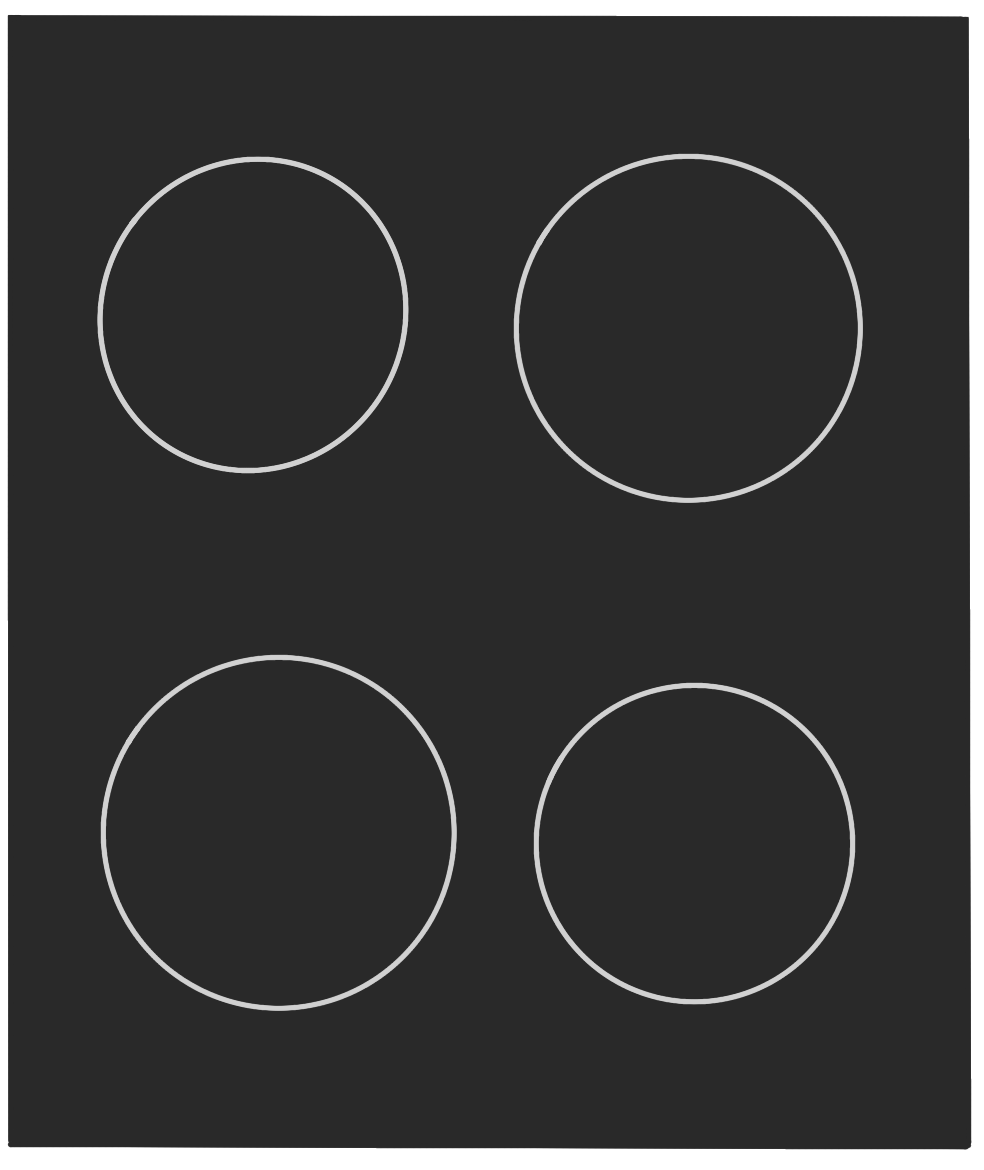
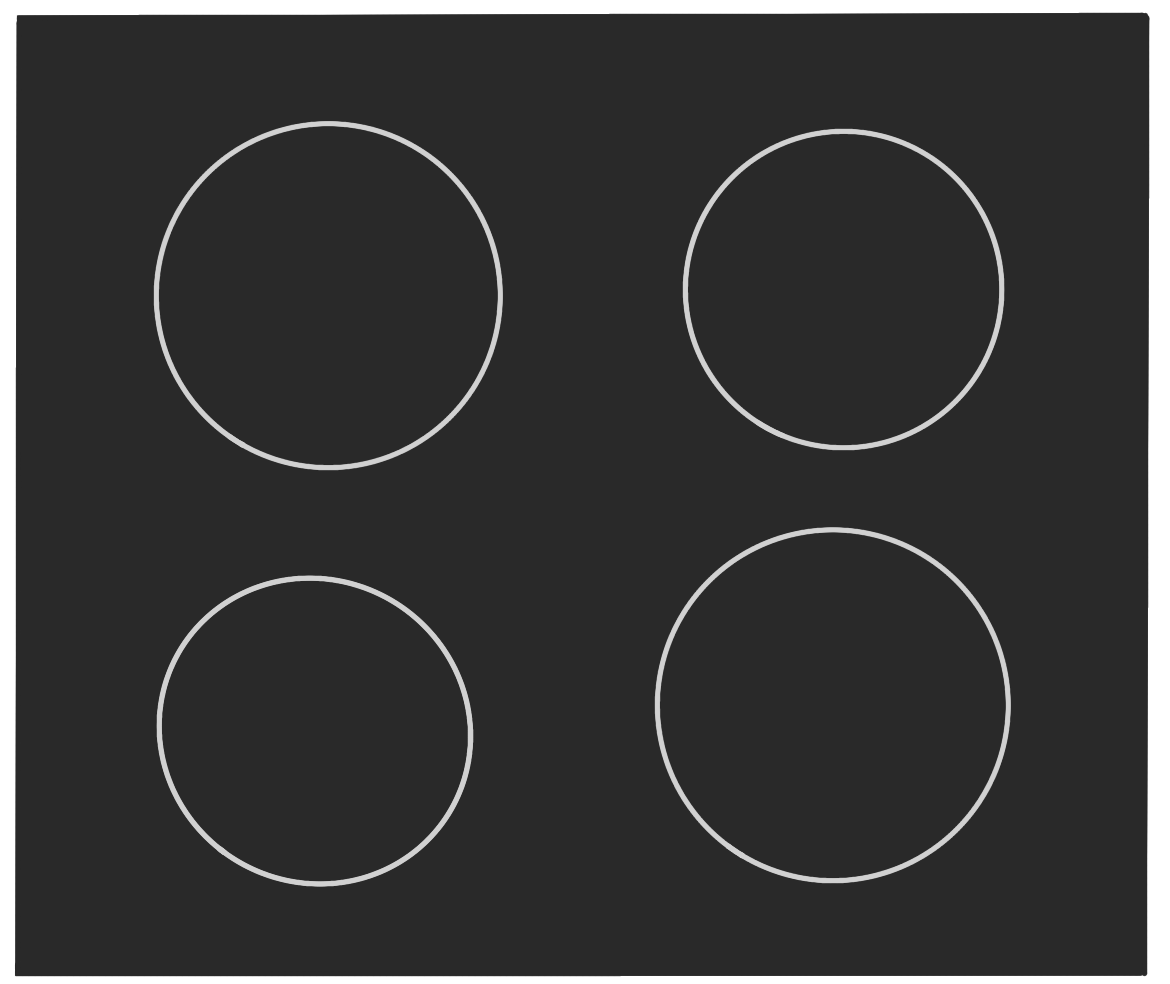
Component borders (#40)
* Energy border pngs added to assets

* Energy borders added to main demo view

diff --git a/frontend/src/components/visual_components/HotWaterHeater.jsx b/frontend/src/components/visual_components/HotWaterHeater.jsx
@@ -1,4 +1,5 @@
 import hotWaterHeaterImage from "../../assets/hot_water_heater.png";
+import energyBorder from "../../assets/hot_water_heater_energy.png";
 import { useNavigate } from "react-router-dom";
 import { useState } from "react"
 import EnergyComponent from "../EnergyComponent";
@@ -38,6 +39,19 @@ const HotWaterHeater = ({demoTime}) => {
 
   return(
     <div>
+      <img
+        id="hot-water-heater-energy"
+        src={energyBorder}
+        alt="energy"
+        className="hot-water-heater-energy-border"
+        style={{
+          position: 'absolute',
+          top: '22.1%',
+          left: '21.2%',
+          width: '4.2%',
+          height: '5.2%',
+        }}
+      />
       <img
         id="hot-water-heater"
         src={hotWaterHeaterImage}

diff --git a/frontend/src/components/visual_components/WashingMachine.jsx b/frontend/src/components/visual_components/WashingMachine.jsx
@@ -1,4 +1,5 @@
 import washingMachineImage from "../../assets/washing_machine.png";
+import energyBorder from "../../assets/washing_machine_energy.png";
 import { useNavigate } from "react-router-dom";
 import { useState } from "react"
 import EnergyComponent from "../EnergyComponent";
@@ -38,6 +39,19 @@ const WashingMachine = ({demoTime}) => {
 
   return (
     <div>
+      <img
+        id="washing-machine-energy"
+        src={energyBorder}
+        alt="energy"
+        className="washing-machine-energy-border"
+        style={{
+          position: 'absolute',
+          top: '22%',
+          left: '28%',
+          width: '6%',
+          height: '5.5%'
+        }}
+      />
       <img
         id="washing-machine"
         src={washingMachineImage}

diff --git a/frontend/src/components/visual_components/ElectricBoard.jsx b/frontend/src/components/visual_components/ElectricBoard.jsx
@@ -1,4 +1,5 @@
 import electricBoardImage from "../../assets/electric_board.png";
+import energyBorder from "../../assets/electric_board_energy.png";
 import { useNavigate } from "react-router-dom";
 import { useState } from "react"
 import EnergyComponent from "../EnergyComponent";
@@ -39,6 +40,19 @@ const ElectricBoard = ({demoTime}) => {
 
   return (
     <div>
+      <img
+        id="electric-board-energy"
+        src={energyBorder}
+        alt="energy"
+        className="electric-board-energy-border"
+        style={{
+          position: 'absolute',
+          top: '37.5%',
+          left: '56.8%',
+          width: '1.8%',
+          height: '6%',
+        }}
+      />
       <img
         id="electric-board"
         src={electricBoardImage}

diff --git a/frontend/src/components/visual_components/Jacuzzi.jsx b/frontend/src/components/visual_components/Jacuzzi.jsx
@@ -1,4 +1,5 @@
 import jacuzziImage from "../../assets/jacuzzi.png";
+import energyBorder from "../../assets/jacuzzi_energy.png";
 import { useNavigate } from "react-router-dom";
 import { useState } from "react"
 import EnergyComponent from "../EnergyComponent";
@@ -37,7 +38,21 @@ const Jacuzzi = ({demoTime}) => {
   const open = Boolean(anchorEl);
 
   return (
+    
     <div>
+      <img
+        id="jacuzzi-energy"
+        src={energyBorder}
+        alt="energy"
+        className="jacuzzi-energy-border"
+        style={{
+          position: 'absolute',
+          top: '2.5%',
+          left: '6.5%',
+          width: '11%',
+          height: '13%',
+        }}
+      />
       <img
         id="jacuzzi"
         src={jacuzziImage}

diff --git a/frontend/src/components/visual_components/SolarPanel2.jsx b/frontend/src/components/visual_components/SolarPanel2.jsx
@@ -1,4 +1,5 @@
 import solarPanelImage from "../../assets/solar_panel.png";
+import energyBorder from "../../assets/solar_panel_energy.png";
 import { useNavigate } from "react-router-dom";
 import { useState } from "react"
 import EnergyComponent from "../EnergyComponent";
@@ -38,6 +39,19 @@ const SolarPanel2 = ({demoTime}) => {
 
   return (
     <div>
+      <img
+        id="solar-panel-energy"
+        src={energyBorder}
+        alt="energy"
+        className="solar-panel-energy-border"
+        style={{
+          position: 'absolute',
+          top: '66%',
+          left: '18.9%',
+          width: '12%',
+          height: '10%'
+        }}
+      />
       <img
         id="solar-panel-2"
         src={solarPanelImage}

diff --git a/frontend/src/components/visual_components/SolarPanel4.jsx b/frontend/src/components/visual_components/SolarPanel4.jsx
@@ -1,4 +1,5 @@
 import solarPanelImage from "../../assets/solar_panel.png";
+import energyBorder from "../../assets/solar_panel_energy.png";
 import { useNavigate } from "react-router-dom";
 import { useState } from "react"
 import EnergyComponent from "../EnergyComponent";
@@ -38,6 +39,19 @@ const SolarPanel4 = ({demoTime}) => {
 
   return (
     <div>
+      <img
+        id="solar-panel-energy"
+        src={energyBorder}
+        alt="energy"
+        className="solar-panel-energy-border"
+        style={{
+          position: 'absolute',
+          top: '78%',
+          left: '18.9%',
+          width: '12%',
+          height: '10%'
+        }}
+      />
       <img
         id="solar-panel-4"
         src={solarPanelImage}

diff --git a/frontend/src/components/visual_components/SolarPanel1.jsx b/frontend/src/components/visual_components/SolarPanel1.jsx
@@ -1,4 +1,5 @@
 import solarPanelImage from "../../assets/solar_panel.png";
+import energyBorder from "../../assets/solar_panel_energy.png";
 import { useNavigate } from "react-router-dom";
 import { useState } from "react"
 import EnergyComponent from "../EnergyComponent";
@@ -38,6 +39,19 @@ const SolarPanel1 = ({demoTime}) => {
 
   return (
     <div>
+      <img
+        id="solar-panel-energy"
+        src={energyBorder}
+        alt="energy"
+        className="solar-panel-energy-border"
+        style={{
+          position: 'absolute',
+          top: '66%',
+          left: '6%',
+          width: '12%',
+          height: '10%'
+        }}
+      />
       <img
         id="solar-panel-1"
         src={solarPanelImage}

diff --git a/frontend/src/components/visual_components/SolarPanel3.jsx b/frontend/src/components/visual_components/SolarPanel3.jsx
@@ -1,4 +1,5 @@
 import solarPanelImage from "../../assets/solar_panel.png";
+import energyBorder from "../../assets/solar_panel_energy.png";
 import { useNavigate } from "react-router-dom";
 import { useState } from "react"
 import EnergyComponent from "../EnergyComponent";
@@ -38,6 +39,19 @@ const SolarPanel3 = ({demoTime}) => {
 
   return (
     <div>
+      <img
+        id="solar-panel-energy"
+        src={energyBorder}
+        alt="energy"
+        className="solar-panel-energy-border"
+        style={{
+          position: 'absolute',
+          top: '78%',
+          left: '6%',
+          width: '12%',
+          height: '10%'
+        }}
+      />
       <img
         id="solar-panel-3"
         src={solarPanelImage}

diff --git a/frontend/src/components/visual_components/HeatPump.jsx b/frontend/src/components/visual_components/HeatPump.jsx
@@ -1,4 +1,5 @@
 import airHeatPumpImage from "../../assets/air_heat_pump.png";
+import energyBorder from "../../assets/air_heat_pump_energy.png";
 import { useNavigate } from "react-router-dom";
 import { useState } from "react"
 import EnergyComponent from "../EnergyComponent";
@@ -38,6 +39,19 @@ const HeatPump = ({demoTime}) => {
 
   return (
     <div>
+      <img
+        id="heat-pump-energy"
+        src={energyBorder}
+        alt="energy"
+        className="heat-pump-energy-border"
+        style={{
+          position: 'absolute',
+          top: '33.5%',
+          left: '37.5%',
+          width: '3%',
+          height: '9%',
+        }}
+      />
       <img
       id="heat-pump"
       src={airHeatPumpImage}

diff --git a/frontend/src/components/visual_components/Stove.jsx b/frontend/src/components/visual_components/Stove.jsx
@@ -1,4 +1,5 @@
 import stoveImage from "../../assets/stove.png";
+import energyBorder from "../../assets/stove_energy.png";
 import { useNavigate } from "react-router-dom";
 import { useState } from "react"
 import EnergyComponent from "../EnergyComponent";
@@ -36,6 +37,19 @@ const Stove = ({demoTime}) => {
   const open = Boolean(anchorEl);
   return (
     <div>
+      <img
+        id="stove-energy"
+        src={energyBorder}
+        alt="energy"
+        className="stove-energy-border"
+        style={{
+          position: 'absolute',
+          top: '2.7%',
+          left: '76.7%',
+          width: '4%',
+          height: '3.6%'
+        }}
+      />
       <img
         id="stove"
         src={stoveImage}

diff --git a/frontend/src/components/visual_components/ElectricCar1.jsx b/frontend/src/components/visual_components/ElectricCar1.jsx
@@ -1,4 +1,5 @@
 import carImage from "../../assets/car.png";
+import energyBorder from "../../assets/car_energy.png";
 import { useNavigate } from "react-router-dom";
 import { useState } from "react"
 import EnergyComponent from "../EnergyComponent";
@@ -38,6 +39,19 @@ const ElectricCar1 = ({demoTime}) => {
 
   return(
     <div>
+      <img
+        id="electric-car-energy"
+        src={energyBorder}
+        alt="energy"
+        className="electric-car-energy-border"
+        style={{
+          position: 'absolute',
+          top: '59%',
+          left: '69.4%',
+          width: '13%',
+          height: '32%',
+        }}
+      />
       <img
         id="electric-car-1"
         src={carImage}

diff --git a/frontend/src/components/visual_components/ElectricCar2.jsx b/frontend/src/components/visual_components/ElectricCar2.jsx
@@ -1,4 +1,5 @@
 import carImage from "../../assets/car.png";
+import energyBorder from "../../assets/car_energy.png";
 import { useNavigate } from "react-router-dom";
 import { useState } from "react"
 import EnergyComponent from "../EnergyComponent";
@@ -38,6 +39,19 @@ const ElectricCar2 = ({demoTime}) => {
 
   return(
     <div>
+      <img
+        id="electric-car-energy"
+        src={energyBorder}
+        alt="energy"
+        className="electric-car-energy-border"
+        style={{
+          position: 'absolute',
+          top: '59%',
+          left: '82.4%',
+          width: '13%',
+          height: '32%',
+        }}
+      />
       <img
         id="electric-car-2"
         src={carImage}
